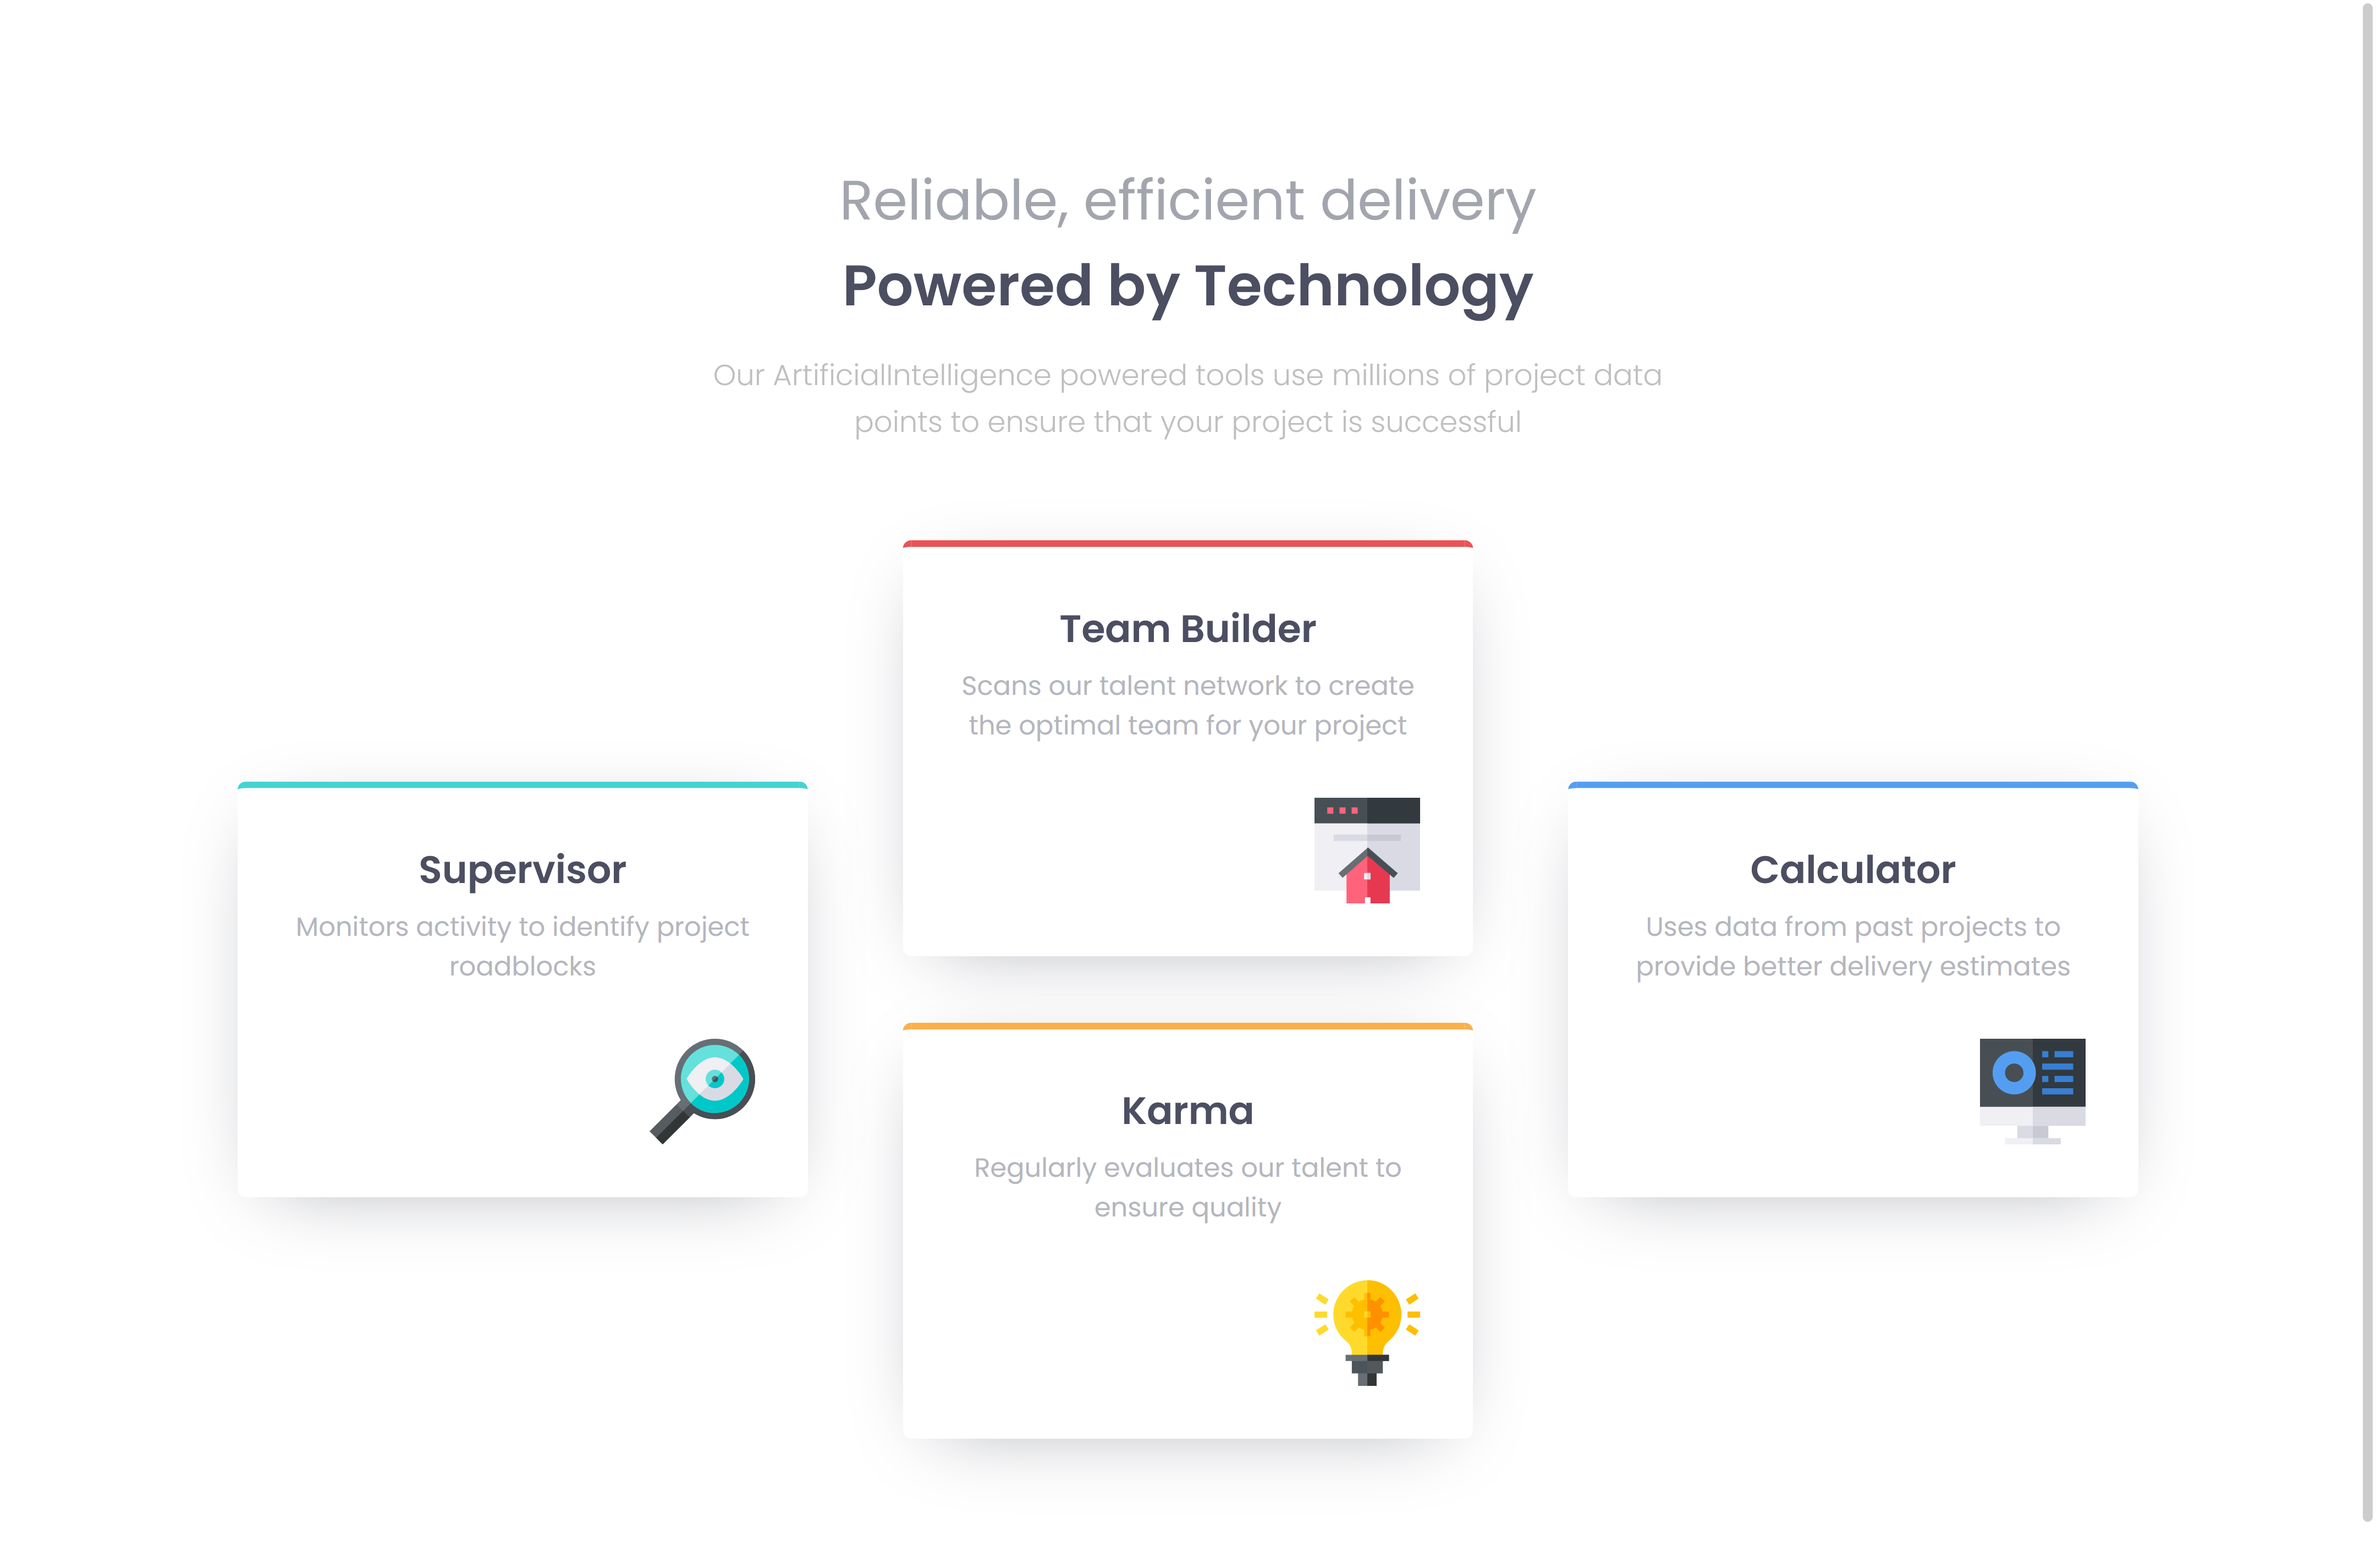
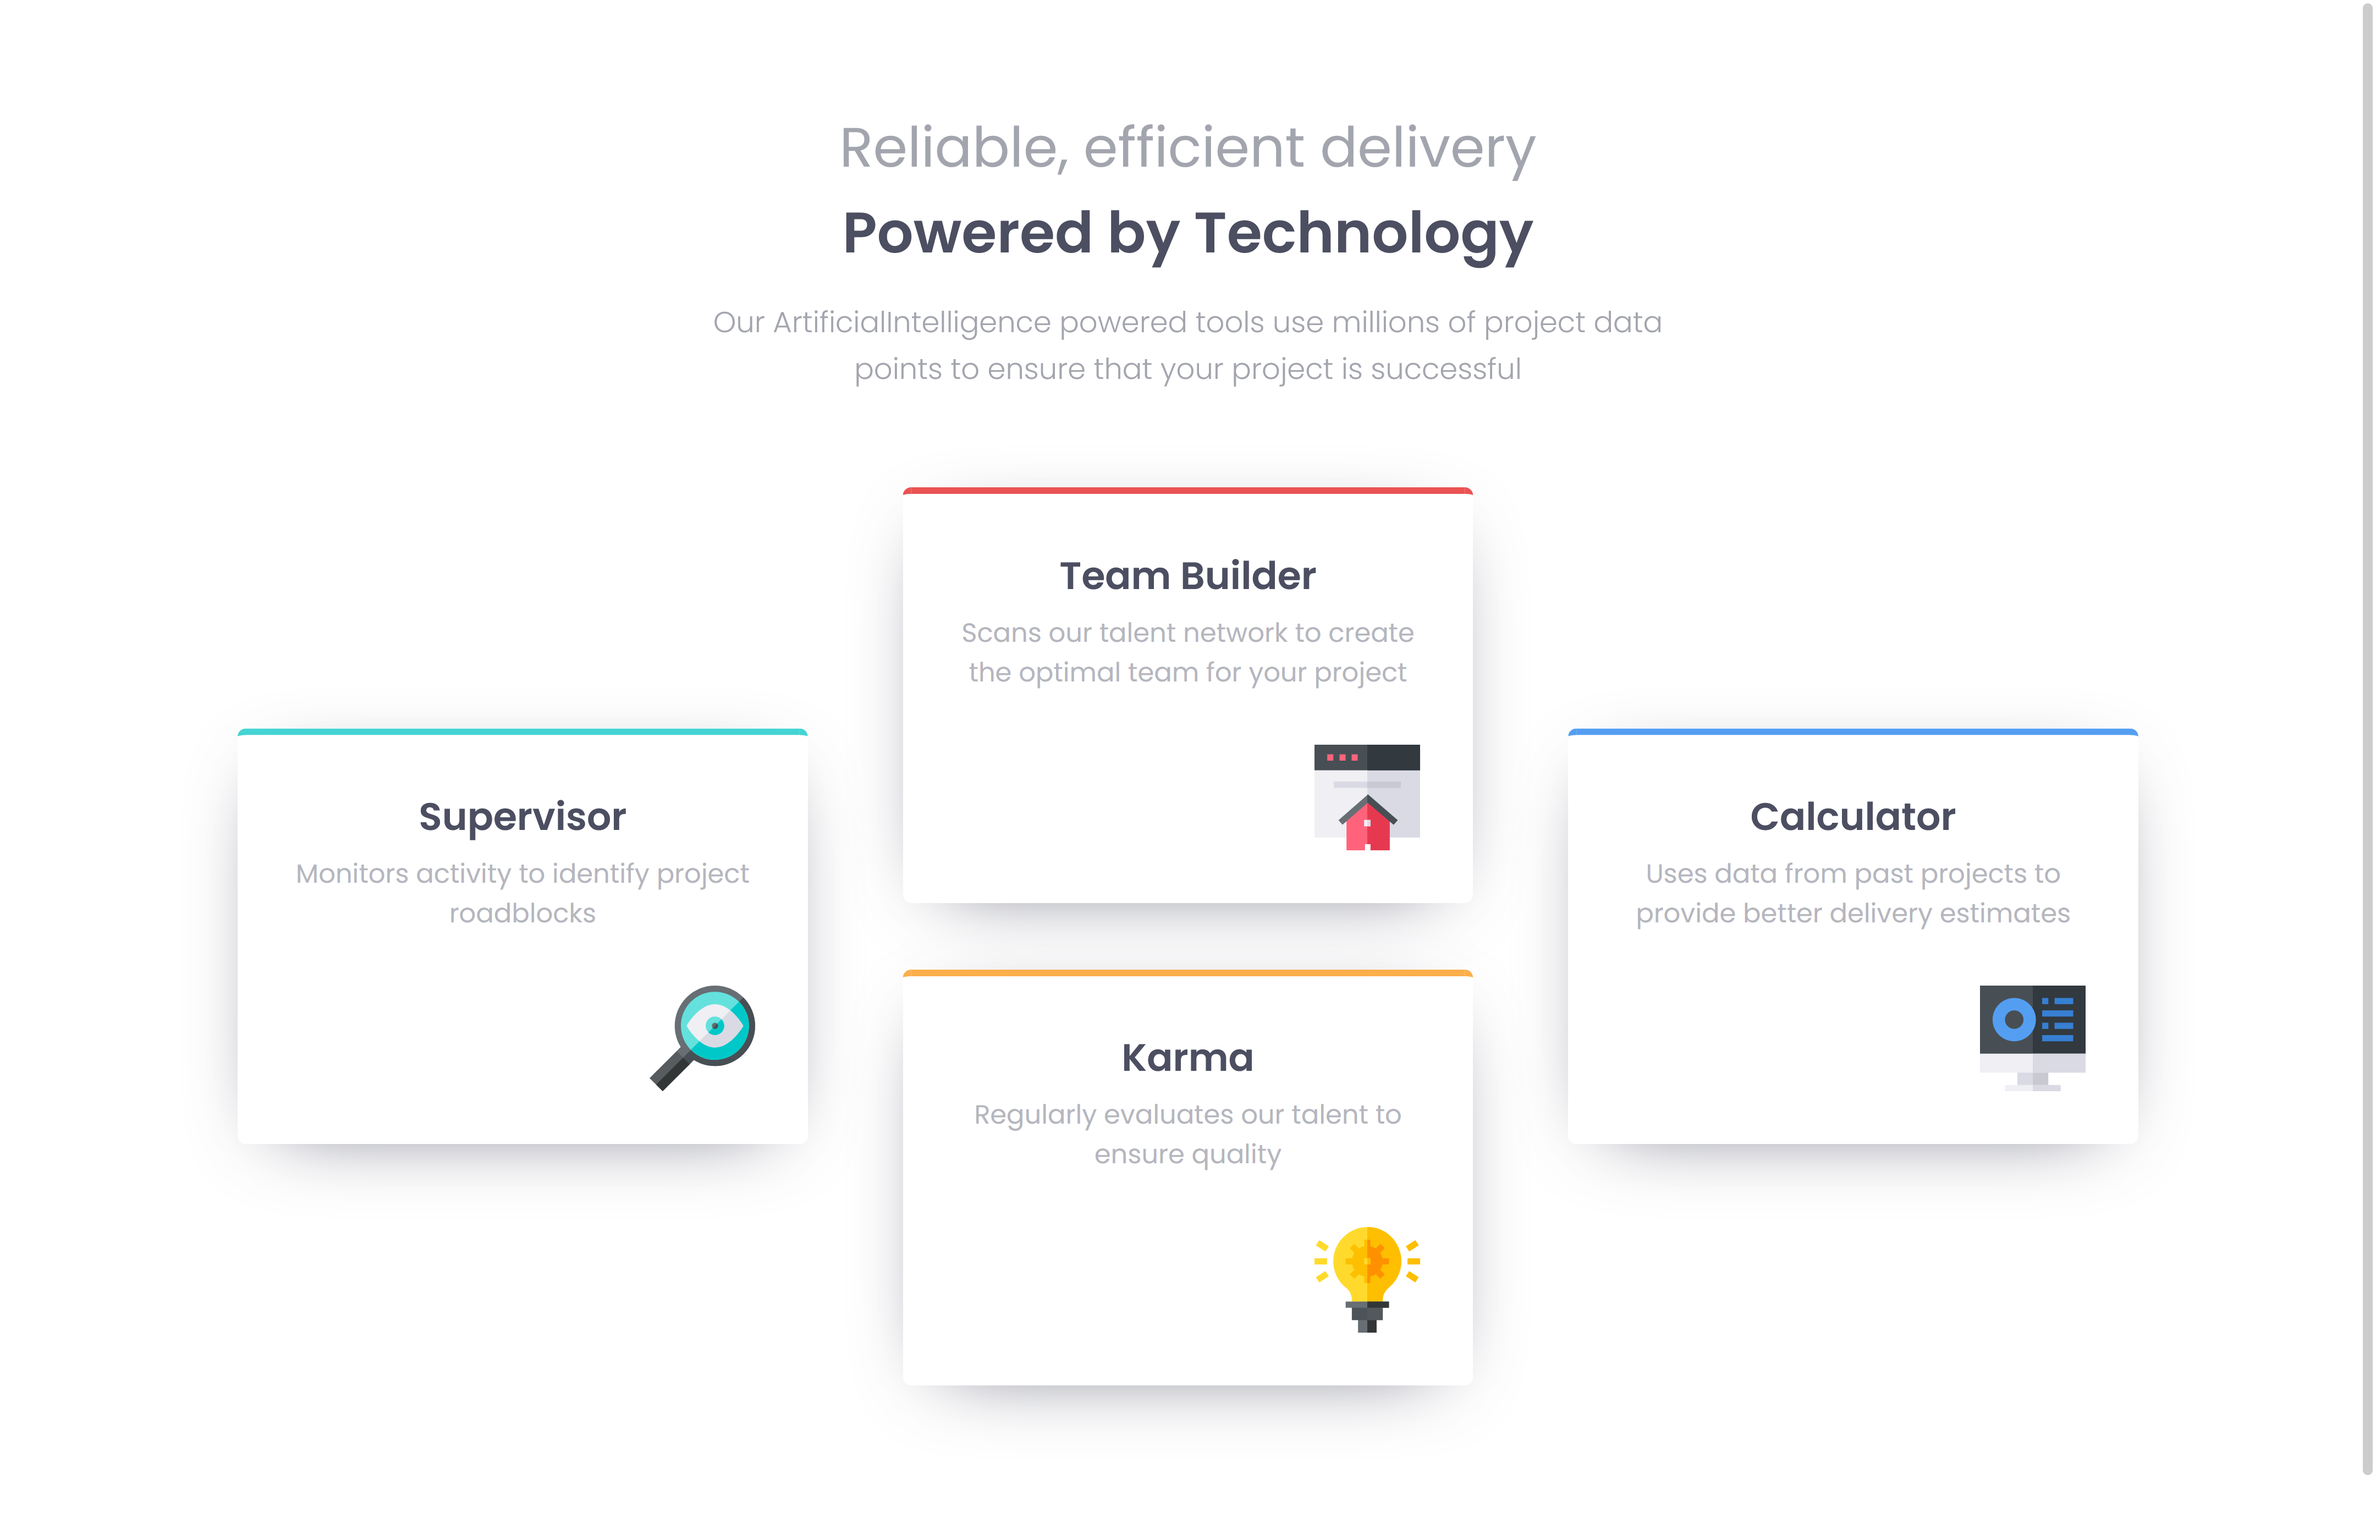
Add files via upload

diff --git a/index.html b/index.html
@@ -55,14 +55,5 @@
         <img src="./images/icon-calculator.svg" alt="calc-icon" />
       </div>
     </div>
-
-    <!-- <footer>
-      <p class="attribution">
-        Challenge by
-        <a href="https://www.frontendmentor.io?ref=challenge" target="_blank"
-          >Frontend Mentor</a
-        >. Coded by <a href="#">Your Name Here</a>.
-      </p>
-    </footer> -->
   </body>
 </html>

diff --git a/style.css b/style.css
@@ -22,7 +22,7 @@ header {
 .p3 {
   margin: 5% 5%;
   font-weight: 300;
-  color: hsl(0, 0%, 70%);
+  color: hsl(229, 6%, 66%);
   font-size: 105%;
   line-height: 160%;
 }
@@ -56,7 +56,7 @@ header {
 
 /* card */
 .container .card {
-  box-shadow: 0 10px 50px -20px hsl(229, 6%, 66%);
+  box-shadow: 0 10px 50px -25px hsl(234, 12%, 34%);
   border-radius: 5px;
   padding: 2rem;
 }
